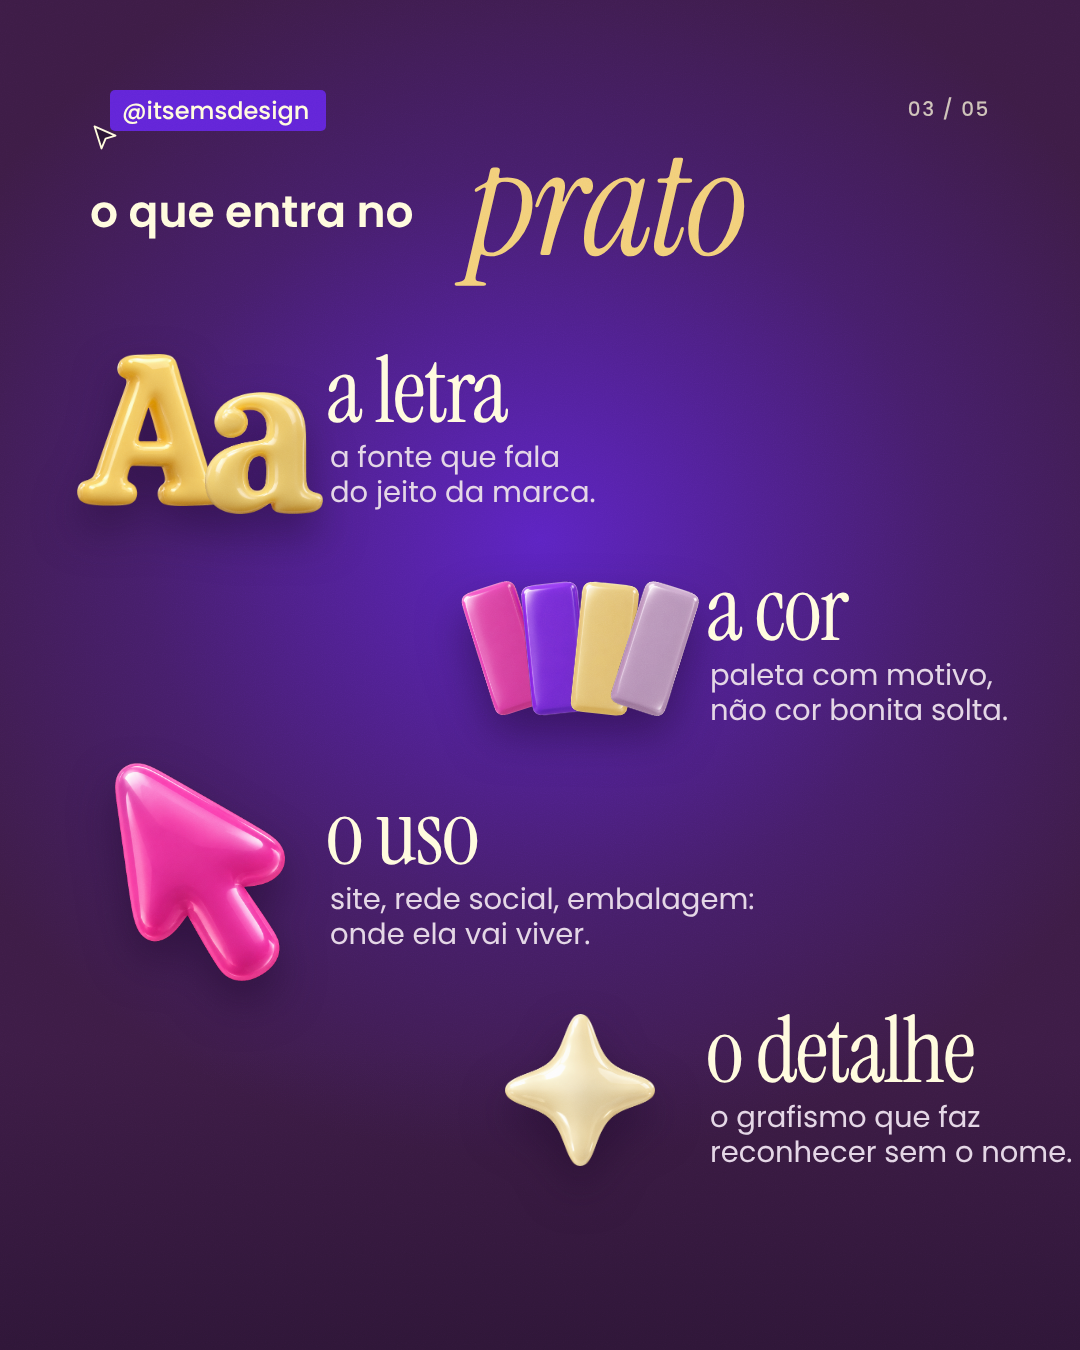
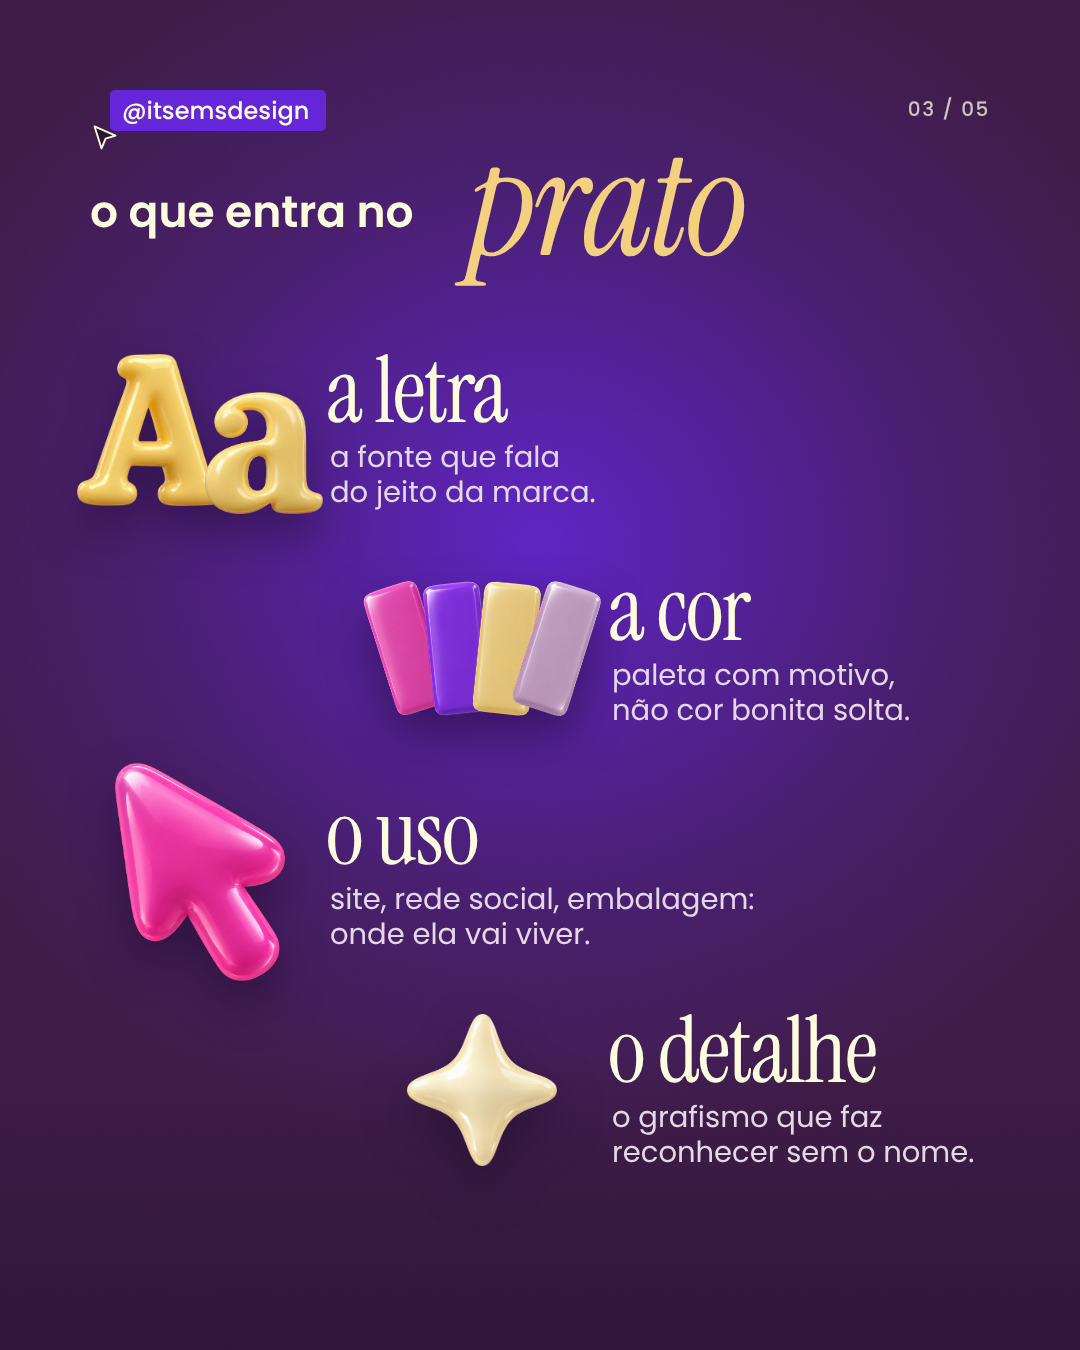
EMS quilo: lâmina 3 dentro da margem
Claude-Session: https://claude.ai/code/session_01CmCiK8vXoD4pXXU5H6drbd

Changed region(s): [[0.3667, 0.7467, 0.9778, 0.8711], [0.3361, 0.4044, 0.9167, 0.56]]

diff --git a/Emi/ems-serie-preco/projeto/laminas-quilo.html b/Emi/ems-serie-preco/projeto/laminas-quilo.html
@@ -50,9 +50,9 @@ const L={
   <span class="lead" style="left:90px;top:188px">o que entra no</span>
   <span class="serif" style="left:468px;top:140px;font-size:150px"><em>prato</em></span>
   ${[['a letra','a fonte que fala<br>do jeito da marca.',`<img src="${P}A-rec.png" style="width:150px"><img src="${P}a-min-rec.png" style="width:118px;margin-left:-22px;margin-top:46px">`,90,330],
-     ['a cor','paleta com motivo,<br>não cor bonita solta.',[1,2,3,4].map((k,i)=>`<img src="${P}amostra${k}-rec.png" style="width:58px;transform:rotate(${-18+12*i}deg);margin-left:${i?-8:0}px">`).join(''),470,548],
+     ['a cor','paleta com motivo,<br>não cor bonita solta.',[1,2,3,4].map((k,i)=>`<img src="${P}amostra${k}-rec.png" style="width:58px;transform:rotate(${-18+12*i}deg);margin-left:${i?-8:0}px">`).join(''),372,548],
      ['o uso','site, rede social, embalagem:<br>onde ela vai viver.',`<img src="${P}cursor-rec.png" style="width:170px">`,90,772],
-     ['o detalhe','o grafismo que faz<br>reconhecer sem o nome.',`<img src="${P}estrela-rec.png" style="width:150px">`,470,990]]
+     ['o detalhe','o grafismo que faz<br>reconhecer sem o nome.',`<img src="${P}estrela-rec.png" style="width:150px">`,372,990]]
     .map(([nome,txt,img,x,y])=>`<div class="obj" style="left:${x}px;top:${y}px;width:220px;height:200px;display:flex;align-items:center;justify-content:center">${img}</div>
       <span class="serif" style="left:${x+236}px;top:${y+22}px;font-size:92px">${nome}</span>
       <span class="corpo" style="left:${x+240}px;top:${y+110}px;font-size:29px;line-height:1.22;white-space:nowrap;color:#e4d6e6">${txt}</span>`).join('')}`,
